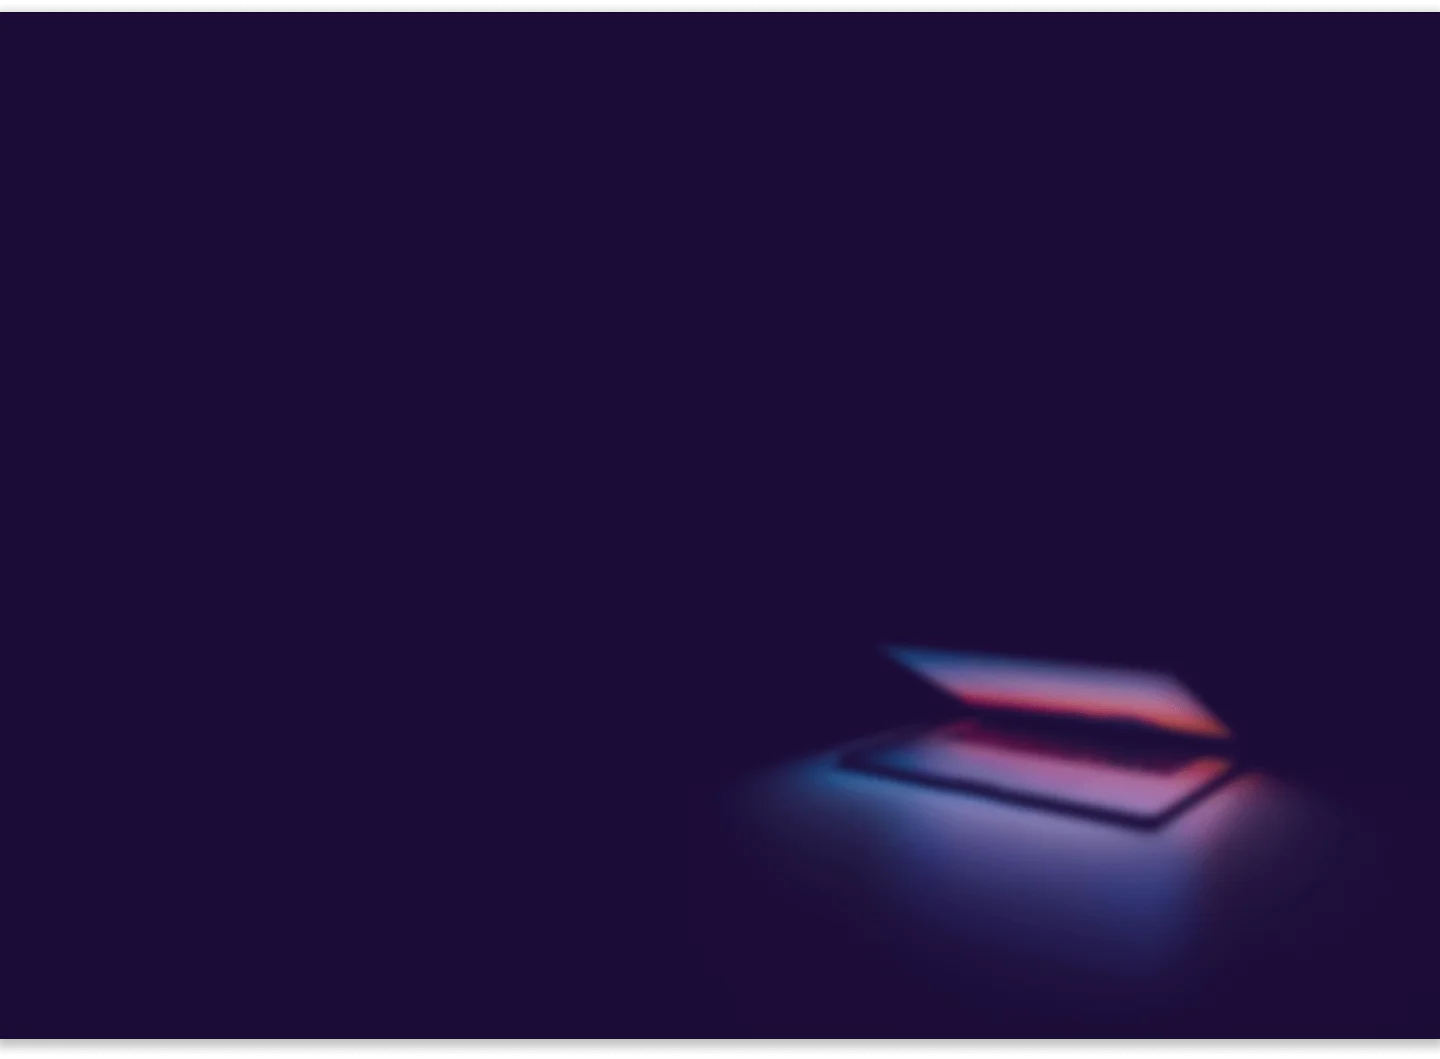
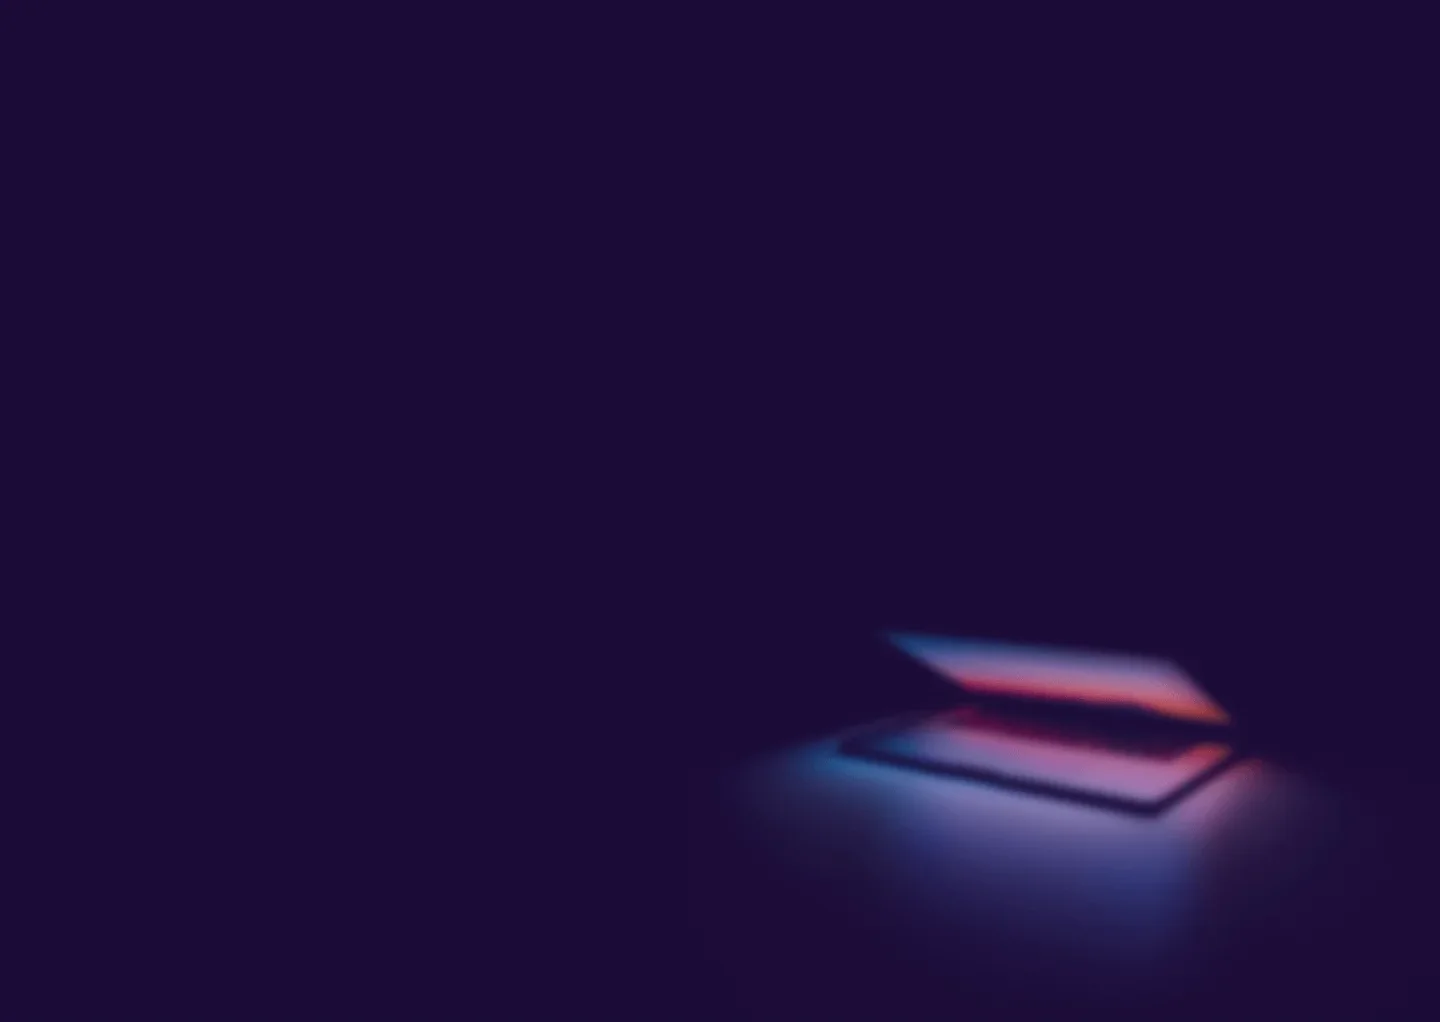
Fix Web dev Full-Stack block background

Changed region(s): [[0.5625, 0.6067, 0.875, 0.819], [0.0, 0.9706, 1.0, 1.0], [0.0, 0.0, 1.0, 0.0303]]

diff --git a/_sass/web_dev_services.scss b/_sass/web_dev_services.scss
@@ -37,9 +37,6 @@
   &__full_stack {
     background: center/cover no-repeat url('/assets/images/web_development_services/web_dev_bg.webp');
     background-color: $dark-purple;
-    margin-top: -2vh;
-    margin-bottom: -25px;
-
     .description { color: $buzok; }
 
     &-list {
@@ -162,8 +159,6 @@
     &__web_solutions { img { width: 55vw; } }
 
     &__full_stack {
-      margin-top: -3vh;
-      margin-bottom: -5vh;
       background-position: 77% 75%;
 
       &-list {
